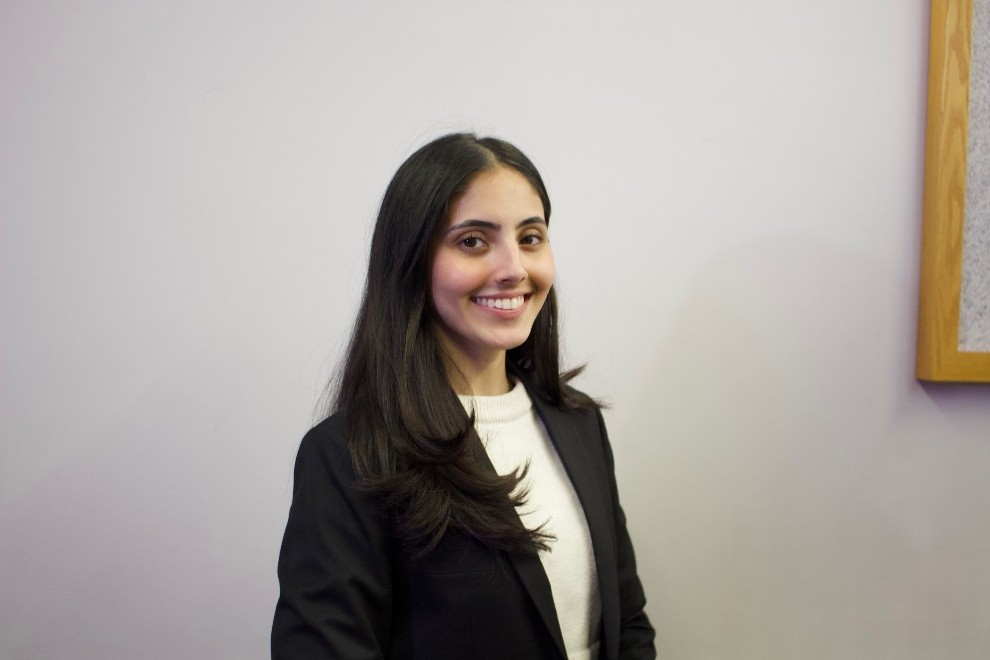
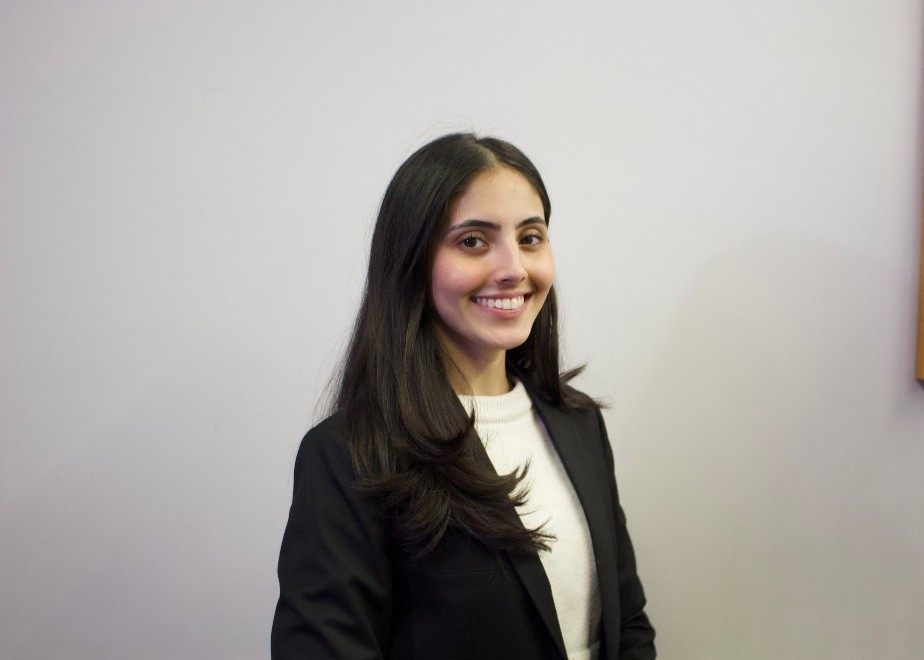
edited pfp pics

diff --git a/pages/board.html b/pages/board.html
@@ -71,7 +71,7 @@
             <div class="board-card">
                 <div class="card-header">
                     <div class="avatar">
-                        <img src="../assets/images/board-members/Sarah_Headshot.jpeg" alt="Sarah Mansoor">
+                        <img src="../assets/images/board-members/FL26/FL26_Sarah_Mansoor.jpg" alt="Sarah Mansoor">
                     </div>
                 </div>
                 <div class="card-body">
@@ -210,7 +210,7 @@
                 <div class="card-footer">
                     <a href="https://www.linkedin.com/in/foday-sesay-41b6922bb/" target="_blank" class="social-link" aria-label="LinkedIn"><i class="fab fa-linkedin"></i></a>
                 </div>
-            </div>
+            </div>git
 
             <div class="board-card">
                 <div class="card-header">
